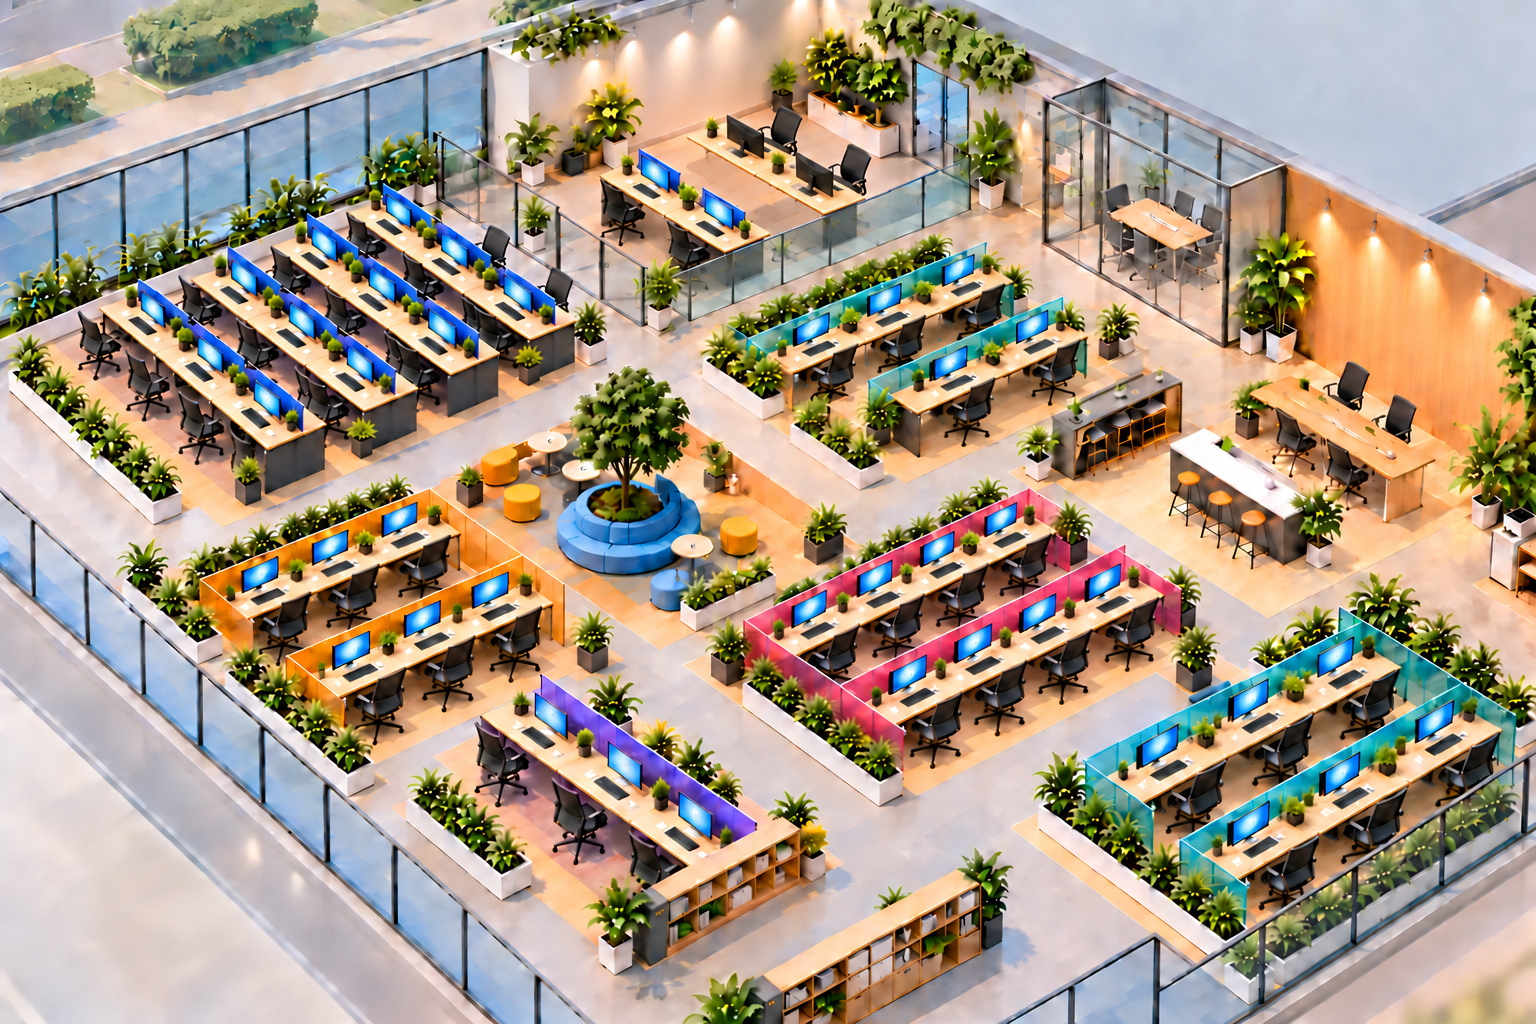
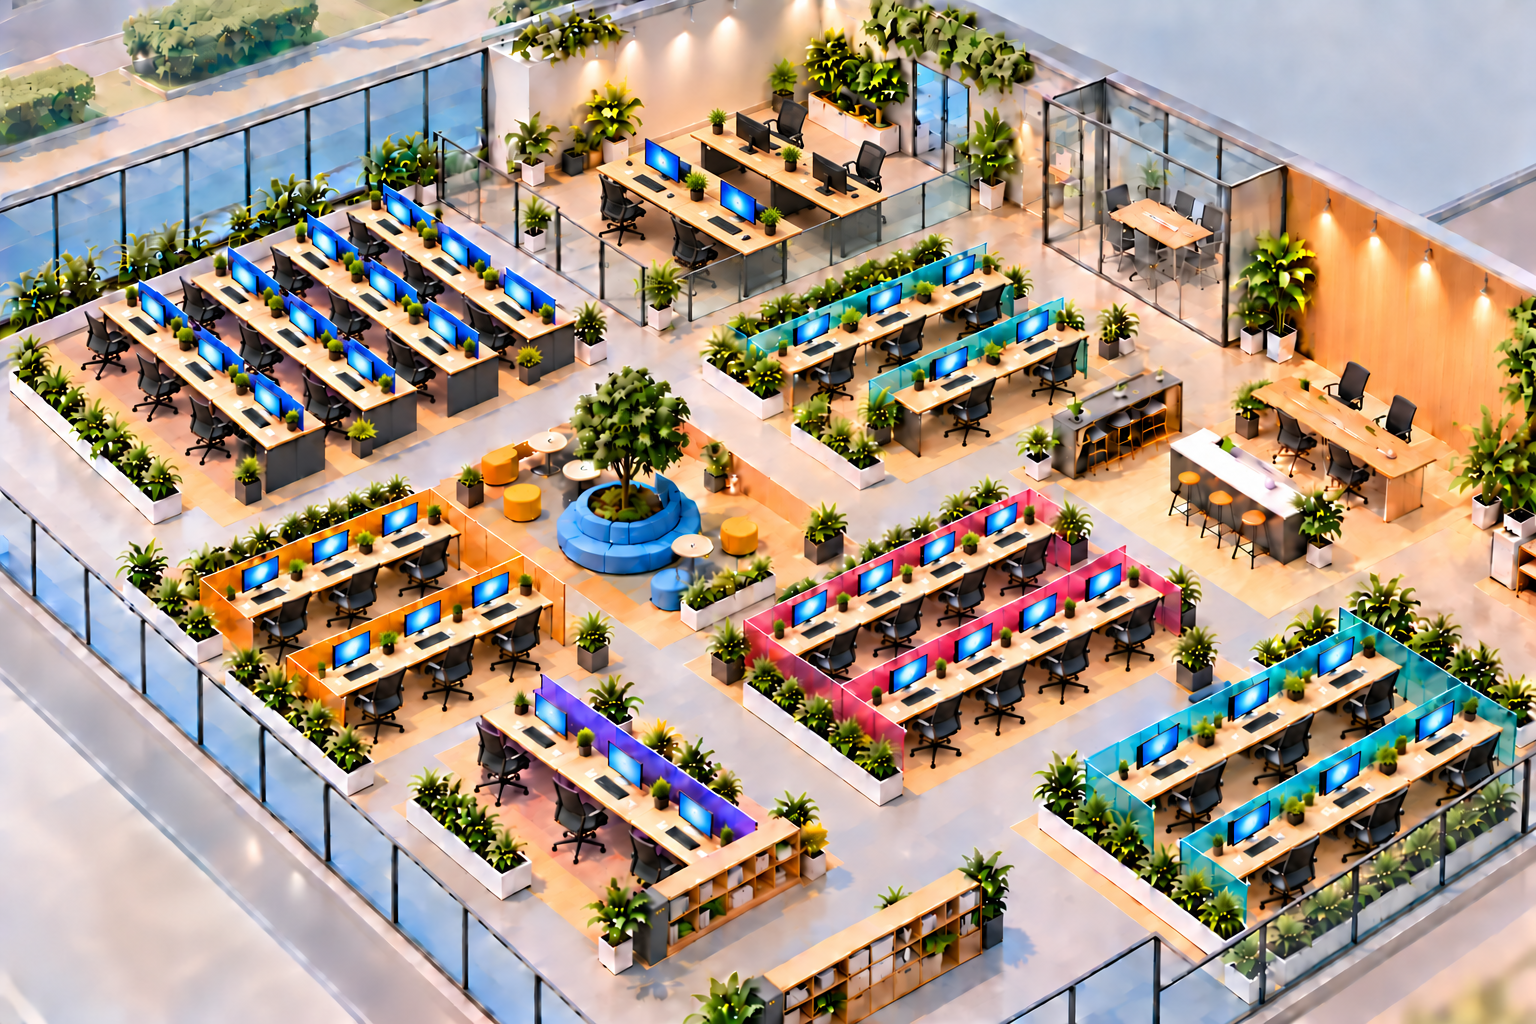
fix(virtual-office): redraw workstation chairs and calibrate occupied seating

diff --git a/apps/web/components/virtual-office/isometric-layout.ts b/apps/web/components/virtual-office/isometric-layout.ts
@@ -1,21 +1,22 @@
 import { chairAnchors } from "./avatar-anchors";
 import type { AvatarAnchor } from "./avatar-anchors";
 export const officeArtwork = { width: 1536, height: 1024 };
-// Desk centers are mapped to the cohesive architectural bank artwork.
+// Desk targets are calibrated to the keyboard areas in the architectural bank artwork.
+// Development and Leadership targets also place the local avatar anchor on each chair cushion.
 export const bankSeats: readonly (readonly [number, number])[][] = [
   [
-    [390, 230],
-    [455, 275],
-    [520, 320],
-    [320, 270],
-    [385, 315],
-    [450, 360],
-    [240, 310],
-    [305, 355],
-    [370, 400],
-    [150, 350],
-    [215, 395],
-    [280, 440],
+    [401, 221],
+    [462, 264],
+    [530, 305],
+    [326, 257],
+    [392, 299],
+    [458, 340],
+    [240, 290],
+    [306, 329],
+    [371, 369],
+    [144, 322],
+    [194, 361],
+    [248, 400],
   ],
   [
     [810, 350],
@@ -56,10 +57,10 @@ export const bankSeats: readonly (readonly [number, number])[][] = [
     [1430, 770],
   ],
   [
-    [640, 200],
-    [720, 155],
-    [710, 245],
-    [790, 200],
+    [654, 187],
+    [749, 155],
+    [728, 232],
+    [825, 200],
   ],
 ];
 type DepartmentArea = {
